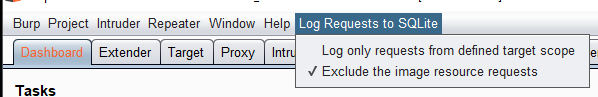
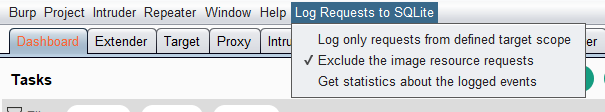
Fixes #7

diff --git a/src/burp/ActivityLogger.java b/src/burp/ActivityLogger.java
@@ -1,9 +1,11 @@
 package burp;
 
 import java.net.InetAddress;
+import java.nio.file.Paths;
 import java.sql.Connection;
 import java.sql.DriverManager;
 import java.sql.PreparedStatement;
+import java.sql.ResultSet;
 import java.sql.Statement;
 import java.time.LocalDateTime;
 import java.time.format.DateTimeFormatter;
@@ -18,6 +20,9 @@ class ActivityLogger implements IExtensionStateListener {
      */
     private static final String SQL_TABLE_CREATE = "CREATE TABLE IF NOT EXISTS ACTIVITY (LOCAL_SOURCE_IP TEXT, TARGET_URL TEXT, HTTP_METHOD TEXT, BURP_TOOL TEXT, REQUEST_RAW TEXT, SEND_DATETIME TEXT)";
     private static final String SQL_TABLE_INSERT = "INSERT INTO ACTIVITY (LOCAL_SOURCE_IP,TARGET_URL,HTTP_METHOD,BURP_TOOL,REQUEST_RAW,SEND_DATETIME) VALUES(?,?,?,?,?,?)";
+    private static final String SQL_COUNT_RECORDS = "SELECT COUNT(HTTP_METHOD) FROM ACTIVITY";
+    private static final String SQL_AMOUNT_DATA_SENT = "SELECT TOTAL(LENGTH(REQUEST_RAW)) FROM ACTIVITY";
+
 
     /**
      * Use a single DB connection for performance and to prevent DB file locking issue at filesystem level.
@@ -85,12 +90,7 @@ class ActivityLogger implements IExtensionStateListener {
      */
     void logEvent(int toolFlag, IRequestInfo reqInfo, byte[] reqContent) throws Exception {
         //Verify that the DB connection is still opened
-        if (this.storageConnection.isClosed()) {
-            //Get new one
-            this.trace.writeLog("Open new connection to the storage.");
-            this.storageConnection = DriverManager.getConnection(url);
-            this.storageConnection.setAutoCommit(true);
-        }
+        this.ensureDBState();
         //Insert the event into the storage
         try (PreparedStatement stmt = this.storageConnection.prepareStatement(SQL_TABLE_INSERT)) {
             stmt.setString(1, InetAddress.getLocalHost().getHostAddress());
@@ -103,6 +103,51 @@ class ActivityLogger implements IExtensionStateListener {
             if (count != 1) {
                 this.trace.writeLog("Request was not inserted, no detail available (insertion counter = " + count + ") !");
             }
+        }
+    }
+
+    /**
+     * Extract and compute statistics about the DB.
+     *
+     * @return A VO object containing the statistics.
+     * @throws Exception If computation meet and error.
+     */
+    DBStats getEventsStats() throws Exception {
+        //Verify that the DB connection is still opened
+        this.ensureDBState();
+        //Get the total of the records in the activity table
+        long recordsCount;
+        try (PreparedStatement stmt = this.storageConnection.prepareStatement(SQL_COUNT_RECORDS)) {
+            try (ResultSet rst = stmt.executeQuery()) {
+                recordsCount = rst.getLong(1);
+            }
+        }
+        //Get the amount of data sent, we assume here that 1 character = 1 byte
+        long amountDataSent;
+        try (PreparedStatement stmt = this.storageConnection.prepareStatement(SQL_AMOUNT_DATA_SENT)) {
+            try (ResultSet rst = stmt.executeQuery()) {
+                amountDataSent = rst.getLong(1);
+            }
+        }
+        //Get the size of the file on the disk
+        String fileLocation = this.url.replace("jdbc:sqlite:", "").trim();
+        long fileSize = Paths.get(fileLocation).toFile().length();
+        //Build the VO and return it
+        return new DBStats(fileSize, recordsCount, amountDataSent);
+    }
+
+    /**
+     * Ensure the connection to the DB is valid.
+     *
+     * @throws Exception If connection cannot be verified or opened.
+     */
+    private void ensureDBState() throws Exception {
+        //Verify that the DB connection is still opened
+        if (this.storageConnection.isClosed()) {
+            //Get new one
+            this.trace.writeLog("Open new connection to the storage.");
+            this.storageConnection = DriverManager.getConnection(url);
+            this.storageConnection.setAutoCommit(true);
         }
     }
 

diff --git a/src/burp/ConfigMenu.java b/src/burp/ConfigMenu.java
@@ -5,6 +5,8 @@ import javax.swing.JCheckBoxMenuItem;
 import javax.swing.JFrame;
 import javax.swing.JMenu;
 import javax.swing.JMenuBar;
+import javax.swing.JMenuItem;
+import javax.swing.JOptionPane;
 import java.awt.Frame;
 import java.awt.event.ActionEvent;
 import java.util.ArrayList;
@@ -59,14 +61,21 @@ class ConfigMenu implements Runnable, IExtensionStateListener {
     private Trace trace;
 
     /**
+     * Ref on activity logger in order to enable the access to the DB statistics.
+     */
+    private ActivityLogger activityLogger;
+
+    /**
      * Constructor.
      *
-     * @param callbacks Ref on Burp tool to manipulate the HTTP requests and have access to API to identify the source of the activity (tool name).
-     * @param trace     Ref on project logger.
+     * @param callbacks      Ref on Burp tool to manipulate the HTTP requests and have access to API to identify the source of the activity (tool name).
+     * @param trace          Ref on project logger.
+     * @param activityLogger Ref on activity logger in order to enable the access to the DB statistics.
      */
-    ConfigMenu(IBurpExtenderCallbacks callbacks, Trace trace) {
+    ConfigMenu(IBurpExtenderCallbacks callbacks, Trace trace, ActivityLogger activityLogger) {
         this.callbacks = callbacks;
         this.trace = trace;
+        this.activityLogger = activityLogger;
         String value;
         //Load the extension settings
         if (IMAGE_RESOURCE_EXTENSIONS.isEmpty()) {
@@ -127,6 +136,28 @@ class ConfigMenu implements Runnable, IExtensionStateListener {
             }
         });
         this.cfgMenu.add(subMenuExcludeImageResources);
+        //Add the sub menu to get statistics about the DB.
+        menuText = "Get statistics about the logged events";
+        final JMenuItem subMenuDBStatsMenuItem = new JMenuItem(menuText);
+        subMenuDBStatsMenuItem.addActionListener(
+                new AbstractAction(menuText) {
+                    public void actionPerformed(ActionEvent e) {
+                        try {
+                            //Get the data
+                            DBStats stats = ConfigMenu.this.activityLogger.getEventsStats();
+                            //Build the message
+                            String buffer = "Size of the database file on the disk: \n\r" + (stats.getSizeOnDisk() / 1024) + " Kb.\n\r";
+                            buffer += "Total number of records in the database: \n\r" + stats.getTotalRecordCount() + " HTTP requests.\n\r";
+                            buffer += "Amount of data sent via HTTP requests: \n\r" + (stats.getTotalRequestsSize() / 1024) + " Kb.";
+                            //Display the information via the UI
+                            JOptionPane.showMessageDialog(ConfigMenu.getBurpFrame(), buffer, "Events statistics", JOptionPane.INFORMATION_MESSAGE);
+                        } catch (Exception exp) {
+                            ConfigMenu.this.trace.writeLog("Cannot obtains statistics about events: " + exp.getMessage());
+                        }
+                    }
+                }
+        );
+        this.cfgMenu.add(subMenuDBStatsMenuItem);
         //Add it to BURP menu
         JFrame burpFrame = ConfigMenu.getBurpFrame();
         if (burpFrame != null) {

diff --git a/src/burp/BurpExtender.java b/src/burp/BurpExtender.java
@@ -18,16 +18,16 @@ public class BurpExtender implements IBurpExtender {
         try {
             callbacks.setExtensionName(extensionName);
             Trace trace = new Trace(callbacks);
-            configMenu = new ConfigMenu(callbacks, trace);
-            SwingUtilities.invokeLater(configMenu);
             String storeFileName = new File(System.getProperty("user.home"), extensionName + ".db").getAbsolutePath().replaceAll("\\\\", "/");
             ActivityLogger activityLogger = new ActivityLogger(storeFileName, callbacks, trace);
             ActivityHttpListener activityHttpListener = new ActivityHttpListener(activityLogger, trace, callbacks);
+            configMenu = new ConfigMenu(callbacks, trace, activityLogger);
+            SwingUtilities.invokeLater(configMenu);
             callbacks.registerHttpListener(activityHttpListener);
             callbacks.registerExtensionStateListener(activityLogger);
             callbacks.registerExtensionStateListener(configMenu);
         } catch (Exception e) {
-            String errMsg = "Cannot start the extension due to the following reason: \n\r" + e.getMessage();
+            String errMsg = "Cannot start the extension due to the following reason:\n\r" + e.getMessage();
             //Unload the menu if the extension cannot be loaded
             if (configMenu != null) {
                 configMenu.extensionUnloaded();

diff --git a/src/burp/DBStats.java b/src/burp/DBStats.java
@@ -1,0 +1,37 @@
+package burp;
+
+/**
+ * VO object used to stored statistics information about the DB.
+ */
+class DBStats {
+    /**
+     * Size on the DB file on disk in bytes
+     */
+    private long sizeOnDisk;
+    /**
+     * Total number of record in the DB main table used
+     */
+    private long totalRecordCount;
+    /**
+     * Amount of data sent via the total size of all HTTP requests
+     */
+    private long totalRequestsSize;
+
+    DBStats(long sizeOnDisk, long totalRecordCount, long totalRequestsSize) {
+        this.sizeOnDisk = sizeOnDisk;
+        this.totalRecordCount = totalRecordCount;
+        this.totalRequestsSize = totalRequestsSize;
+    }
+
+    long getSizeOnDisk() {
+        return sizeOnDisk;
+    }
+
+    long getTotalRecordCount() {
+        return totalRecordCount;
+    }
+
+    long getTotalRequestsSize() {
+        return totalRequestsSize;
+    }
+}

diff --git a/README.md b/README.md
@@ -47,6 +47,13 @@ There is an option to exclude the logging of the requests that target images (ch
 
 The list of supported file extensions is [here](resources/settings.properties).
 
+## Statistics
+
+There is an option to obtain statistics about the information logged in the database:
+
+![Image Stats Menu 1](example5a.png)
+
+![Image Stats Menu 2](example5b.png)
 
 # Build the extension JAR file
 
